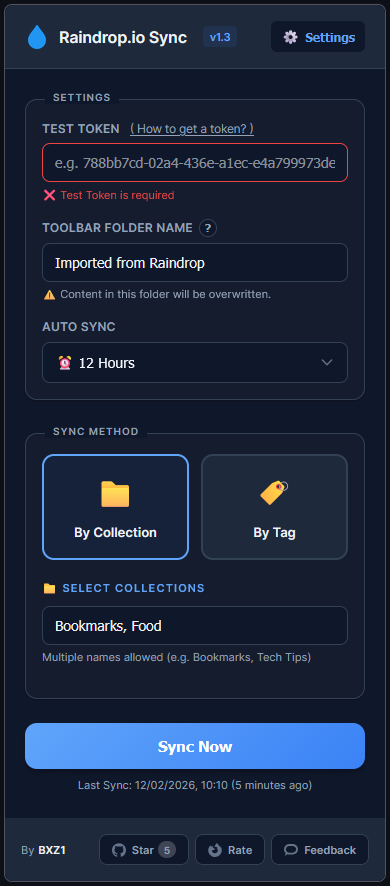
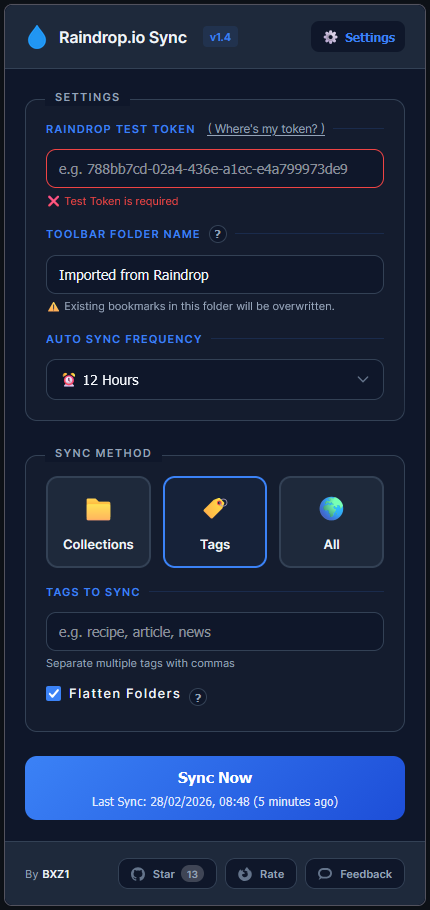
feat: persist sync status in the popup UI, and new screenshots.

diff --git a/background.js b/background.js
@@ -18,6 +18,14 @@ const firefoxFolderCache = {};
 // Rate limiting: Track last request time
 let lastRequestTime = 0;
 
+// Track active sync for popup persistence
+let SYNC_STATE = {
+    isSyncing: false,
+    percent: 0,
+    count: 0,
+    total: 0
+};
+
 /**
  * Rate limiting helper: Ensures we don't exceed API rate limits
  * Raindrop.io allows 120 requests per minute (~500ms between requests)
@@ -293,6 +301,9 @@ async function fetchAndImportFromEndpoint(apiToken, url, searchParams, targetRoo
             if (progressState && progressState.total > 0) {
                 progressState.current++;
                 const percent = Math.min(Math.round((progressState.current / progressState.total) * 100), 99);
+                SYNC_STATE.percent = percent;
+                SYNC_STATE.count = progressState.current;
+                SYNC_STATE.total = progressState.total;
                 browser.runtime.sendMessage({
                     command: 'sync_progress',
                     percent: percent,
@@ -339,6 +350,7 @@ async function importRaindropBookmarks(settings) {
     }
 
     // 1. Fetch Structure First
+    SYNC_STATE = { isSyncing: true, percent: 0, count: 0, total: 0 };
     await fetchRaindropCollections(apiToken);
 
     // 2. Prepare Target Folder (Clean Slate)
@@ -496,7 +508,10 @@ async function importRaindropBookmarks(settings) {
         // Clear cache on error to prevent stale data
         for (const key in firefoxFolderCache) { delete firefoxFolderCache[key]; }
         for (const key in collectionMap) { delete collectionMap[key]; }
+        SYNC_STATE.isSyncing = false; // Reset on error
         return { success: false, error: error.message };
+    } finally {
+        SYNC_STATE.isSyncing = false; // Reset on completion
     }
 }
 
@@ -609,6 +624,11 @@ browser.runtime.onMessage.addListener((message, sender, sendResponse) => {
 
     if (message.command === 'update_alarm') {
         updateAlarm(message.interval).then(() => sendResponse({ status: 'ok' }));
+        return true;
+    }
+
+    if (message.command === 'get_sync_status') {
+        sendResponse(SYNC_STATE);
         return true;
     }
 });

diff --git a/popup.js b/popup.js
@@ -80,6 +80,14 @@ async function loadState() {
 
         updateLastSyncDisplay(stored.lastSync);
         fetchGitHubStars();
+
+        // Check if sync is currently in progress in background
+        const syncStatus = await browser.runtime.sendMessage({ command: 'get_sync_status' });
+        if (syncStatus && syncStatus.isSyncing) {
+            elements.importBtn.disabled = true;
+            elements.btnTitle.textContent = 'Syncing...';
+            showStatus('loading', `Syncing... ${syncStatus.percent}%`);
+        }
     } catch (e) {
         console.error('Failed to load state', e);
     }
@@ -468,7 +476,12 @@ loadState();
 // Listen for progress updates from background
 browser.runtime.onMessage.addListener((msg) => {
     if (msg.command === 'sync_progress' && elements.importBtn.classList.contains('loading')) {
-        const text = `Syncing... ${msg.percent}%`;
-        elements.btnSubtitle.innerHTML = `<div class="spinner-small"></div><span>${text}</span>`;
+        const progressSpan = elements.btnSubtitle.querySelector('span');
+        if (progressSpan) {
+            progressSpan.textContent = `Syncing... ${msg.percent}%`;
+        } else {
+            // Fallback if structure isn't there yet
+            elements.btnSubtitle.innerHTML = `<div class="spinner-small"></div><span>Syncing... ${msg.percent}%</span>`;
+        }
     }
 });

diff --git a/index.css b/index.css
@@ -361,6 +361,10 @@ input.invalid {
     margin-bottom: 0;
 }
 
+.input-area .form-group {
+    margin-bottom: 0;
+}
+
 /* Checkbox Group */
 .checkbox-group {
     display: flex;
@@ -544,9 +548,8 @@ input.invalid {
 
 .btn-sub-title {
     font-size: 12px;
-    font-weight: 600;
-    opacity: 1;
-    /* Full opacity for maximum readability */
+    font-weight: 500;
+    color: rgba(255, 255, 255, 0.85);
     display: flex;
     align-items: center;
     gap: 8px;

diff --git a/README.md b/README.md
@@ -21,7 +21,7 @@ Raindrop.io Sync is a specialized Firefox extension that bridges the gap between
 Most bookmark managers keep your links tucked away in a separate app. This extension puts them exactly where you need them: **the native Firefox Bookmarks Toolbar.**
 
 *   **Set and Forget**: Scheduled **Auto-Sync** keeps your toolbar fresh every few hours, daily, or weekly.
-*   **Source Selection**: Sync multiple **Collections** or **#tags** at once (separated by commas).
+*   **Source Selection**: Sync multiple **Collections**, **#tags** (separated by commas), or your **entire library**.
 *   **Respects Manual Order**: Perfectly mirrors your **manual sorting** and folder structure from Raindrop.
 *   **Optional Flattening**: Choose to import everything into a single folder or preserve subfolders.
 *   **Offline Reliability**: Won't touch your bookmarks if the API is down or you're offline.
@@ -36,13 +36,13 @@ Most bookmark managers keep your links tucked away in a separate app. This exten
     *   Give it any name (e.g., `Firefox Sync`) and save.
     *   Click on your new app, then click **"Create test token"**.
     *   Copy the token and paste it into the extension's **API Token** field.
-3.  **Pick your Source**: Select the **By Collection** or **By Tag** method. You can enter multiple names separated by commas (e.g., `Work, News, Tech Tips`).
+3.  **Pick your Source**: Select the **Collections**, **Tags**, or **All** method. You can enter multiple names separated by commas (e.g., `Work, News, Tech Tips`).
 4.  **Set the Target**: Choose which folder in your **Bookmarks Toolbar** should hold the synced links (Default: `Imported from Raindrop`).
 5.  **Schedule Sync**: Choose your frequency and let the background script do the work.
 
 ## Support ⭐
 
-If you find this tool useful, please consider giving it a **Star** on [GitHub](https://github.com/BXZ1/raindrop-sync-firefox). It helps the project grow and stay maintained!
+If you find this useful, please consider **leaving a review on the [Firefox Add-on page](https://addons.mozilla.org/en-US/firefox/addon/raindrop-sync-firefox/)** or **starring the [GitHub repo](https://github.com/BXZ1/raindrop-sync-firefox)**. It helps with visibility and makes it easier for more people to discover the add-on!
 
 ## Development 🛠
 
